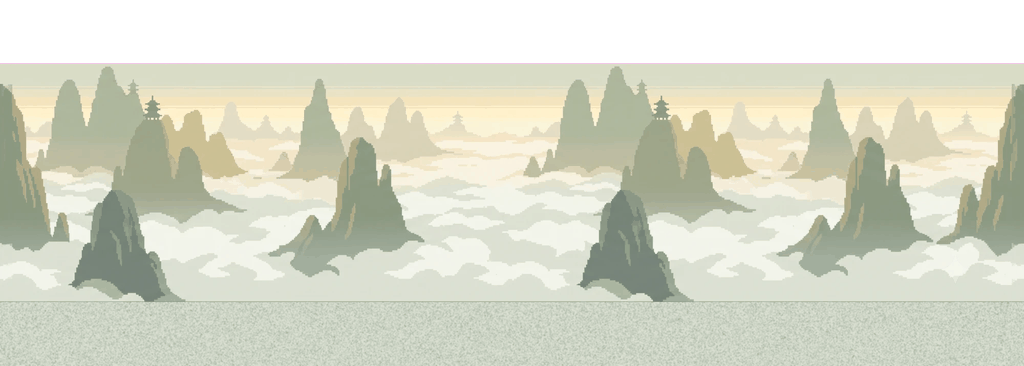
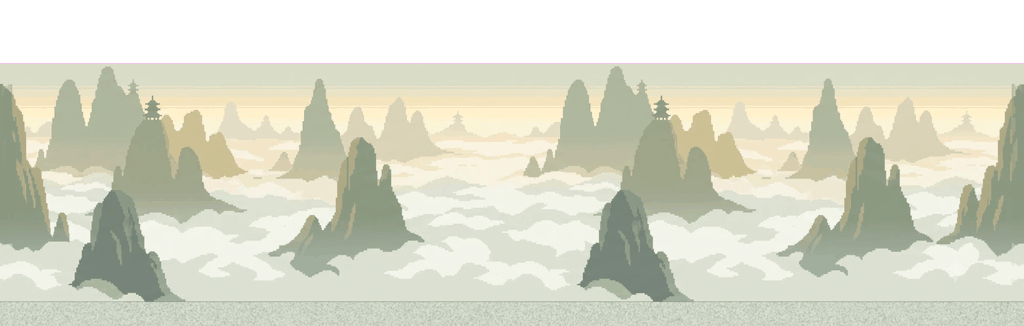
v2.87.4 원경 아래 선 제거 — 죽림 시트 잔재 줄 메움, 천산 띠 축소, 디졸브 길이를 아래 균일 띠에 맞춤
Claude-Session: https://claude.ai/code/session_01JNaHhiKtytcgy14ocCuYm4

diff --git a/src/50-render.js b/src/50-render.js
@@ -40,13 +40,18 @@ function thash(cx, cy, s){
 // 원경 시트는 윗줄이 투명하다(죽림 32·폐촌 83·설산 32·천산 63줄, 동굴은 알파 경사) — 거기로 바닥 타일이 비쳤다.
 // 바가 그 투명 띠를 덮고, 그림의 **불투명한 첫 줄**이 바 바로 아래 오게 y0를 잡는다(y0 = max(바 − 투명 띠, 지평선 − 높이)).
 // 투명 띠 높이(clearTop)는 backdropScaled가 축소 캔버스에서 한 번 재서 bdClear에 둔다. jsdom은 둘 다 0.
-const bdClear = {};
+const bdClear = {}, bdBand = {};   // bdBand: 아래 균일 띠 높이(px) — 디졸브가 이 띠를 다 덮게 (v2.87.4)
 function uiTopUnits(){
   const tb = document.getElementById('topbar');
   if (!tb || !tb.offsetHeight || !VIEW.h) return 0;
   return Math.ceil(tb.offsetHeight * VH / VIEW.h);
 }
 function backdropClear(zk, sw, sh){ return bdClear[zk + ':' + sw + 'x' + sh] || 0; }
+// 디졸브 길이 — 그림 높이 비율과 '아래 균일 띠 + 여유' 중 큰 쪽. 띠 윗변이 불투명 선으로 남지 않게 (v2.87.4 "원경 아래 선이 거슬림")
+function backdropFade(zk, sw, sh){
+  const band = bdBand[zk + ':' + sw + 'x' + sh] || 0;
+  return Math.min(sh - 2, Math.max(BACKDROP.fadeMin, Math.round(sh * BACKDROP.fadeR), band + BACKDROP.fadePad));
+}
 function backdropTop(zk, sw, sh){ return Math.max(uiTopUnits() - backdropClear(zk, sw, sh), Math.round(VH * BACKDROP.hz) - sh); }
 function drawBackdrop(ox){
   const zk = zone().k, img = IMG[BACKDROP.keys[zk]];
@@ -63,7 +68,7 @@ function drawBackdrop(ox){
   ctx.fillStyle = BACKDROP.sky[zk] || zone().ground;              // 그림 위 하늘 — 투명 윗줄까지 덮는다(바닥 타일이 비치지 않게)
   const skyTo = y0 + backdropClear(zk, sw, sh);
   if (skyTo > 0) ctx.fillRect(0, 0, VW, skyTo + 1);
-  const F = Math.min(sh - 2, Math.max(BACKDROP.fadeMin, Math.round(sh * BACKDROP.fadeR))), solid = sh - F, n = BACKDROP.fadeSteps;
+  const F = backdropFade(zk, sw, sh), solid = sh - F, n = BACKDROP.fadeSteps;
   for (let x = off; x < VW; x += sw)                               // 위쪽 불투명부
     ctx.drawImage(src, 0, 0, sw, solid, Math.round(x), y0, sw, solid);
   // 띠 경계는 정수로 잘라 겹치지 않게 — 겹친 반투명 띠가 알파를 쌓아 가로 줄무늬가 됐다
@@ -107,6 +112,11 @@ function backdropScaled(zk, img, sw, sh){
           if (a / sw > 200){ top = y; break; }
         }
         bdClear[key] = top;
+        // 아래 균일 띠 — 줄 평균 밝기가 맨 아랫줄과 3 이내로 이어지는 줄 수 (bg_extract --pad 띠·설산 눈밭)
+        const lum = y => { let a = 0; for (let x = 0; x < sw; x++){ const i = (y * sw + x) * 4; a += d[i] + d[i + 1] + d[i + 2]; } return a / (3 * sw); };
+        const base = lum(sh - 1); let band = 0;
+        for (let y = sh - 1; y >= 0; y--){ if (Math.abs(lum(y) - base) <= 3) band++; else break; }
+        bdBand[key] = band;
       } catch(e) {}
     }
   } catch(e) {}
@@ -119,7 +129,7 @@ function horizonY(){
   if (!img || !img.complete || !img.naturalWidth) return -1e9;
   const sh = Math.round(VH * (BACKDROP.h[zone().k] || BACKDROP.hDef));
   const sw = Math.max(1, Math.round(sh * img.naturalWidth / img.naturalHeight));
-  return backdropTop(zone().k, sw, sh) + sh - Math.round(sh * BACKDROP.fadeR) * BACKDROP.cull;
+  return backdropTop(zone().k, sw, sh) + sh - backdropFade(zone().k, sw, sh) * BACKDROP.cull;
 }
 // 배경 소품 — 시트 스프라이트를 넓은 격자에 성기게. 인물 뒤 층. 가시 셀만.
 function drawProps(ox, oy){

diff --git a/src/00-data.js b/src/00-data.js
@@ -298,6 +298,8 @@ const BACKDROP = {
   // 그림 84px)에서 그림의 3/4를 녹여 집·나무 아랫도리가 다 잘려 보였다("아래쪽이 다 짤려").
   // 이제 아래 14%만 녹인다 — 집 주춧돌만 땅에 스민다.
   fadeR: 0.14, fadeMin: 8, fadeSteps: 48, fadePow: 1.0,   // 계단 48(≈1px) — 설산 넓은 눈밭 띠(120px)에서 16단은 줄무늬가 보였다
+  fadePad: 16,                                  // v2.87.4 "원경 아래 선": 시트 아래 균일 띠(bg_extract --pad)가 디졸브보다 높으면 띠 윗변이 불투명한 선으로 남는다(천산 44px > 35px)
+                                                //   → 디졸브 길이 = max(fadeR×높이, 띠 높이 + fadePad). 띠 높이는 backdropScaled가 축소 캔버스에서 잰다(bdBand)
   cull: 0.5,                                    // 지평선 위(fade의 이 비율 지점부터) 소품 안 세움
   keys: { bamboo:'bg_bamboo', village:'bg_village', cave:'bg_cave', snow:'bg_snow', heaven:'bg_heaven' },
   sky:  { bamboo:'#becfbc', village:'#a78e76', cave:'#3f444b', snow:'#cddae8', heaven:'#d8dbc6' },  // 그림 위 남는 하늘(시트 윗줄 평균)

diff --git a/VERSION.md b/VERSION.md
@@ -1,3 +1,11 @@
+# v2.87.4 — 원경 아래 선 제거 (사용자: "죽림과 천산 원경 아래 선이 보이는데 거슬림", 2026-09-16)
+
+- **죽림**: 시트 293번째 줄에 어두운 1px 줄(테두리 잔재, 밝기 119 vs 155)이 디졸브 중간(알파 .57)에 걸려 선으로 보였다 → 위아래 줄 평균으로 메움
+  (assets/bg_bamboo.png, bg_extract와 같은 팔레트 저장).
+- **천산**: 아래 균일 띠(bg_extract --pad 48줄 + 시트 자체 15줄 = 63줄 ≈ 44px)가 디졸브(35px)보다 두꺼워 띠 윗변이 불투명 선으로 남았다 →
+  ① 시트 아래 40줄 잘라 띠 23줄로(그림 7% 커짐, 366→326), ② **디졸브 길이 = max(fadeR×높이, 띠 높이 + fadePad 16)** — backdropScaled가 축소
+  캔버스에서 아래 균일 띠 높이(줄 평균 밝기 차 ≤3, bdBand)를 재고 backdropFade가 쓴다. horizonY도 같은 길이. 5구역 재확인 scratch zones5b.png.
+
 # v2.87.3 — 장신구 아이콘 7등급 완성 (신화·초월, 2026-09-16)
 
 - 신화(5) `eqicons.py 5 --slot=trinket`, 초월(6) `--pale` 신설: 옅은 얼음색 아이템 + 흰 후광 시트에서 이웃 차 번짐(--flood)은 후광에서
